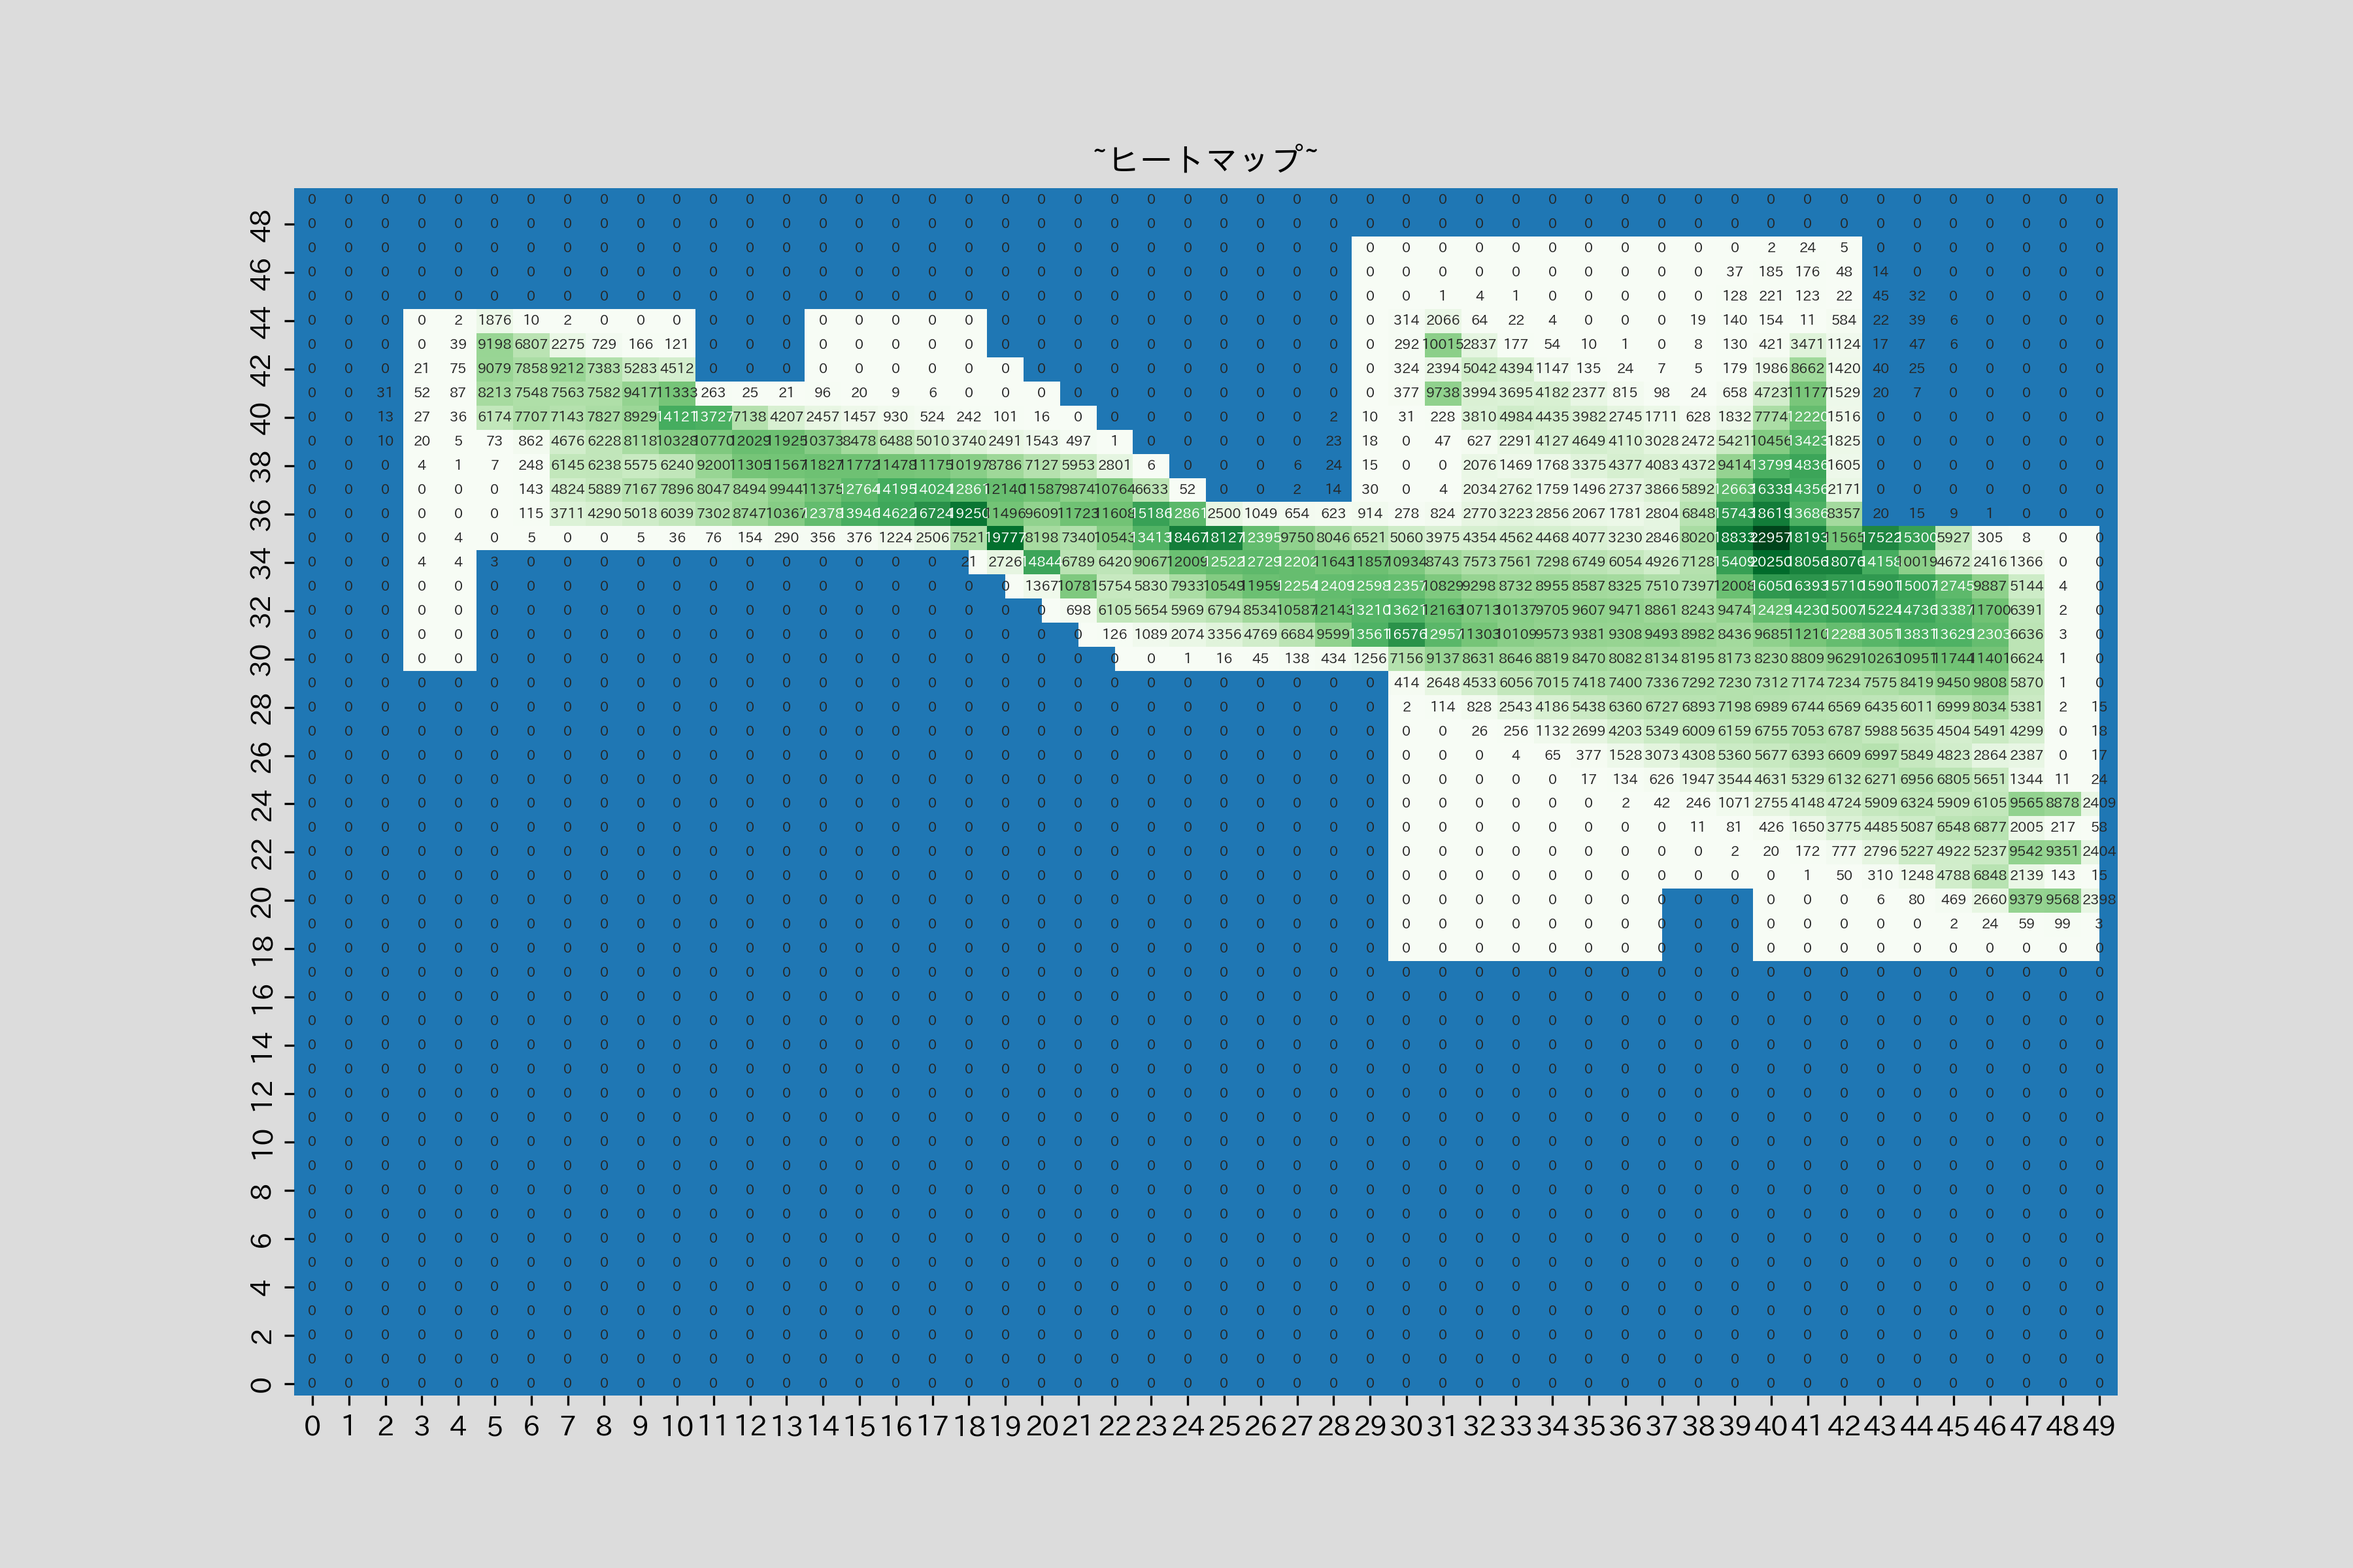
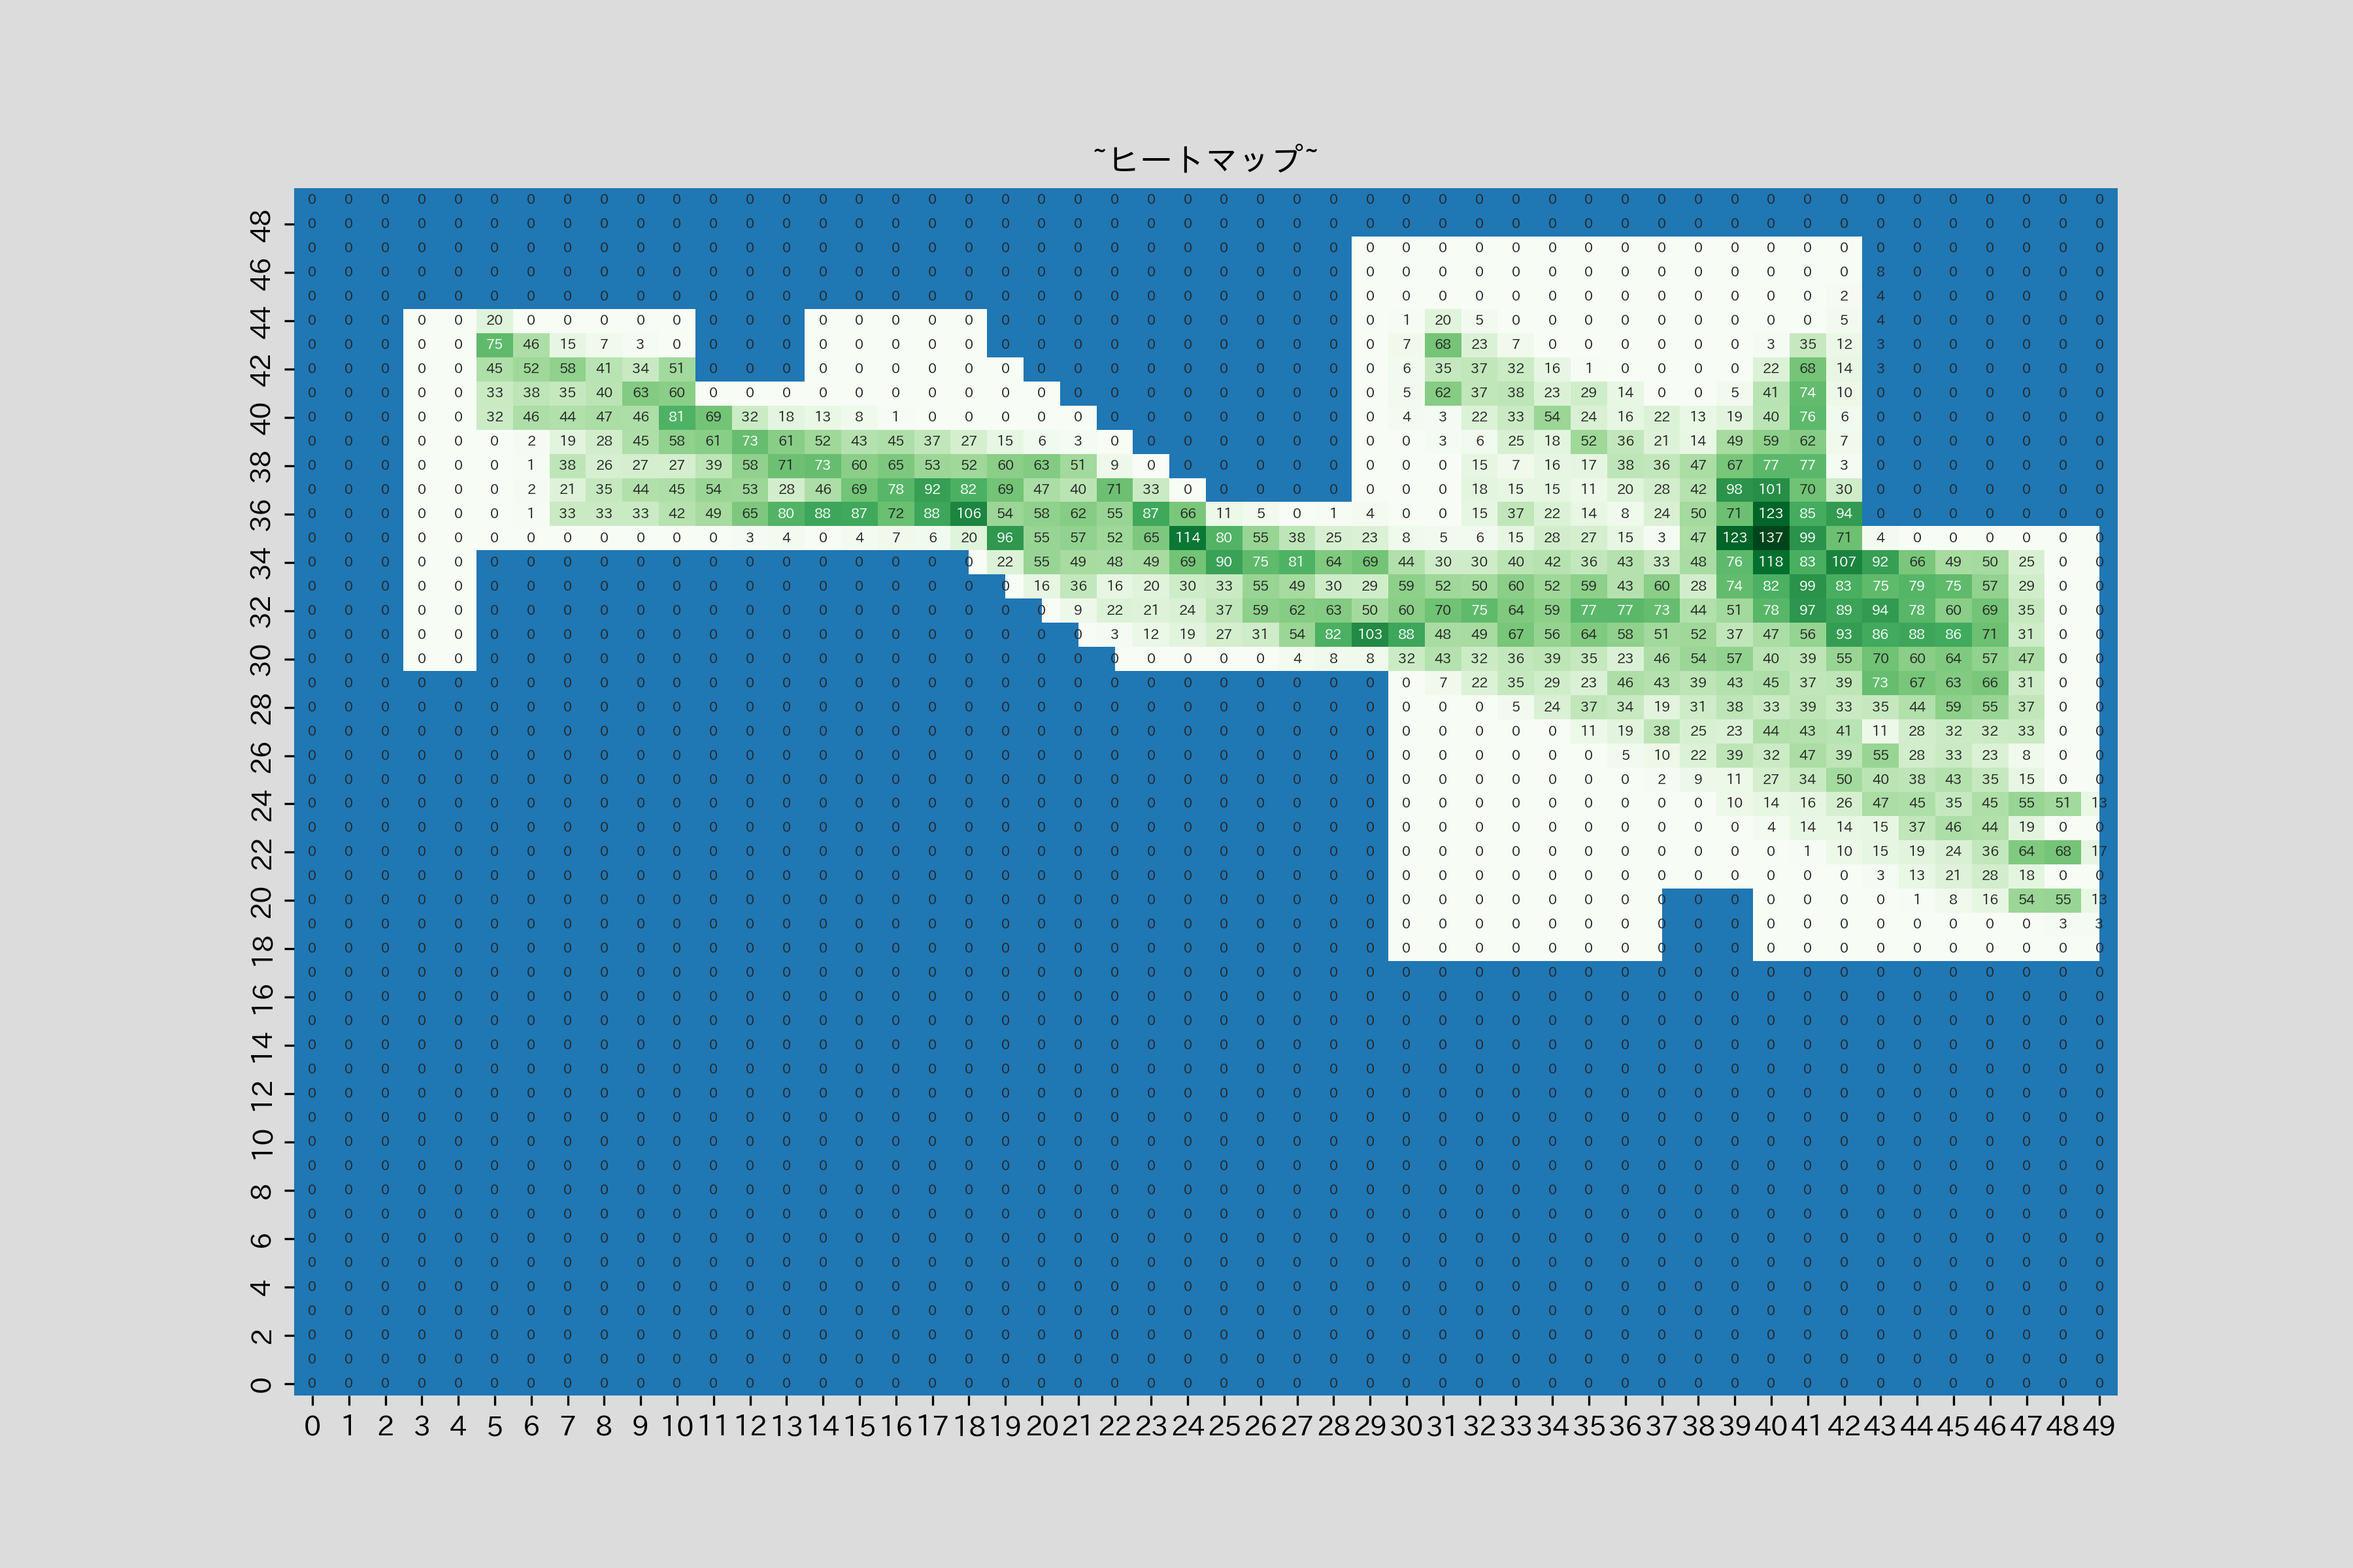
1215

Changed region(s): [[0.1867, 0.1562, 0.9022, 0.5938]]

diff --git a/normal/modules/Constants_morning.py b/normal/modules/Constants_morning.py
@@ -31,7 +31,7 @@ HEIGHT_HEATMAP = int(HEIGHT/10)
 # 壁置く時:全部False
 # シミュレーション回す時、�?�部True
 
-PERFECT_FAKE = False # �?�?
+PERFECT_FAKE = True # �?�?
 HIDE = False # シミュレーション�?すか
 BACKGROUND = False # Background�?
 # ----------------
